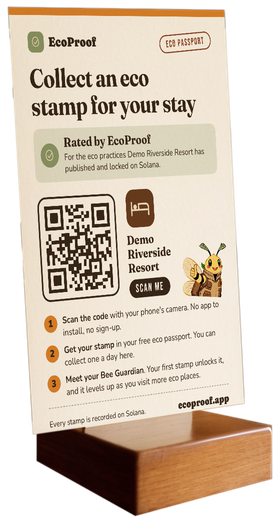
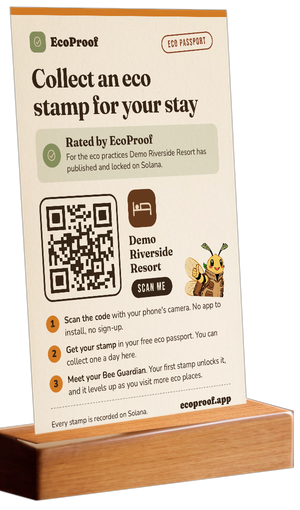
Hero stand: a slim matt holder instead of the deep glossy block
Claude-Session: https://claude.ai/code/session_01HWHP3iugw8gkvvKKS5vpBj

diff --git a/components/landing/MapPicture.tsx b/components/landing/MapPicture.tsx
@@ -133,7 +133,7 @@ export default function MapPicture({ scanned = false }: { scanned?: boolean }) {
         <svg viewBox="0 0 100 100" preserveAspectRatio="none" className="pointer-events-none absolute inset-0 h-full w-full" aria-hidden>
           <path d="M83 33 C 86 36, 87 40, 86 46" fill="none" stroke="#e08a2e" strokeWidth={3} strokeDasharray="7 6" strokeLinecap="round" vectorEffect="non-scaling-stroke" />
         </svg>
-        <Image src="/landing/hero/stand-slim.webp" alt="The hotel's EcoProof postcard on a wooden stand: Collect an eco stamp for your stay, Rated by EcoProof, with a QR code" width={280} height={522} sizes="(min-width: 640px) 170px, 120px"
+        <Image src="/landing/hero/stand-thin.webp" alt="The hotel's EcoProof postcard on a wooden stand: Collect an eco stamp for your stay, Rated by EcoProof, with a QR code" width={300} height={510} sizes="(min-width: 640px) 170px, 120px"
           className="hero-stand absolute -bottom-[16%] -left-3 -rotate-[3deg] drop-shadow-[0_18px_22px_rgba(58,42,28,0.4)] lg:-left-10" />
         <ScanPhone />
       </>}

diff --git a/art/hero-scan/cutout.py b/art/hero-scan/cutout.py
@@ -2,7 +2,7 @@
 """The A6 postcard on its wooden block, cut out with a transparent background, for the hero (Pola, 2026-11-18: keep the card stand,
 but without a photo behind it; the hero is three pictures: the map, the stand, the phone). Cut from the hotel reception photo
 (../postcard/reception2_436.png) with the app's own postcard printed on it, as in ../postcard/compose.py; outlines read off gridded
-zooms by hand. Run with the WebUI venv python (numpy, cv2) → stand.png (280x522, RGBA)."""
+zooms by hand. Run with the WebUI venv python (numpy, cv2) → stand.png (300x510, RGBA)."""
 import pathlib
 import numpy as np, cv2
 from PIL import Image
@@ -17,17 +17,28 @@ M = cv2.getPerspectiveTransform(np.float32([(0, 0), (cw, 0), (cw, ch), (0, ch)])
 pr = cv2.warpPerspective(card, M, (W*SS, H*SS), flags=cv2.INTER_AREA, borderValue=(255, 255, 255))
 a = cv2.warpPerspective(np.full((ch, cw), 255, np.float32), M, (W*SS, H*SS), flags=cv2.INTER_LINEAR)[..., None]/255
 big = big*(1-a) + big*(pr/255)*a
-# The block in the photo is far wider than the card (Pola: "overdimensional"), so it is drawn at half its size about the middle of the
-# card's foot, under the card. The plain photo is used for the block, the printed one for the card.
-PIVOT, SHRINK = (506, 781), 0.5
-plain = cv2.resize(src, (W*SS, H*SS), interpolation=cv2.INTER_LANCZOS4).astype(np.float32)
-bm = np.zeros((H*SS, W*SS), np.uint8); cv2.fillPoly(bm, [np.int32(np.float32(BLOCK)*SS)], 255, cv2.LINE_AA)
-A = np.float32([[SHRINK, 0, PIVOT[0]*SS*(1-SHRINK)], [0, SHRINK, PIVOT[1]*SS*(1-SHRINK)]]); size = (W*SS, H*SS)
-block = cv2.warpAffine(plain, A, size, flags=cv2.INTER_AREA); bm = cv2.warpAffine(bm, A, size, flags=cv2.INTER_AREA)
+# The block in the photo is far wider and deeper than the card and has a glossy top (Pola: "overdimensional", "too shiny", "thinner
+# in depth"), so a slim holder is built from its wood instead: a little wider than the card, a narrow strip deep, lower, with a matt
+# top. Its faces are the photo's own two side faces, laid onto the new shape; the top is the front face's wood, lightened.
+F, R, L = np.float32((500, 828)), np.float32((773, 793)), np.float32((303, 775))     # the photo block's front, right and left top corners
+P = lambda a, b: F + a*(R - F) + b*(L - F)                                            # a along the card, b into the depth; the card stands at b = 0.57
+A0, A1, B0, B1, TH = -0.04, 0.90, 0.44, 0.70, np.float32((0, 56))                     # the new holder: along the card, in depth, and its height
+f, r, l, bk = P(A0, B0), P(A1, B0), P(A0, B1), P(A1, B1)
+plain = cv2.resize(src, (W*SS, H*SS), interpolation=cv2.INTER_LANCZOS4).astype(np.float32); size = (W*SS, H*SS)
+block = np.zeros_like(plain); bm = np.zeros((H*SS, W*SS), np.uint8)
+def face(src_quad, dst_quad, gain=1.0):
+    global block, bm
+    M2 = cv2.getPerspectiveTransform(np.float32(src_quad)*SS, np.float32(dst_quad)*SS)
+    w = cv2.warpPerspective(plain, M2, size, flags=cv2.INTER_AREA); m = np.zeros((H*SS, W*SS), np.uint8); cv2.fillPoly(m, [np.int32(np.float32(dst_quad)*SS)], 255, cv2.LINE_AA)
+    k = (m.astype(np.float32)/255)[..., None]; block = block*(1-k) + w*gain*k; bm = np.maximum(bm, m)
+RIGHT = [(500, 834), (773, 800), (773, 895), (500, 968)]; LEFT = [(306, 782), (497, 834), (497, 968), (306, 860)]   # the photo's two faces, just inside their edges
+face(RIGHT, [l, bk, r, f], 1.12)             # top: matt wood, a little lighter than the front
+face(LEFT, [l, f, f + TH, l + TH])           # the side in shadow
+face(RIGHT, [f, r, r + TH, f + TH])          # the front
 cm = np.zeros((H*SS, W*SS), np.uint8); cv2.fillPoly(cm, [np.int32(np.float32(QUAD)*SS)], 255, cv2.LINE_AA)
 ca = (cv2.GaussianBlur(cm, (0, 0), 0.8).astype(np.float32)/255)[..., None]
 out = block*(1-ca) + big*ca
 mask = np.maximum(cv2.GaussianBlur(bm, (0, 0), 0.8), cv2.GaussianBlur(cm, (0, 0), 0.8))
-x0, y0, x1, y1 = 368*SS, 362*SS, 648*SS, 884*SS
+x0, y0, x1, y1 = 366*SS, 362*SS, 666*SS, 872*SS
 rgba = np.dstack([out.clip(0, 255).astype(np.uint8), mask])[y0:y1, x0:x1]
 im = Image.fromarray(rgba, "RGBA"); im = im.resize((im.width//2, im.height//2), Image.LANCZOS); im.save(D/"stand.png"); print("wrote stand.png", im.size)

diff --git a/CLAUDE.md b/CLAUDE.md
@@ -112,7 +112,7 @@ on Solana. For sustainable shops, cafés, markets and online brands.
   (`components/landing/CheckRecord.tsx` → `/api/verify`); "Your impact page writes itself" shows the example shop (most verified purchases) with
   its numbers linking to `/places/<id>#proofs` (the proof list, `shopProofs()` in `lib/shops.ts`), and the live badge: `lib/badge.ts` builds the SVG,
   `/api/badge/<place>.svg` serves it (eco shops only, cached 5 min), `badgeEmbed()` is the snippet, shown only on the owner dashboard (`badge` in the activity API); the landing shows the badge image without its code. Below `FEW_ORDERS` (10, `lib/badge.ts`) verified orders the badge and the landing widget lead with the order count instead of the totals, so one big order can't look like inflation. With no example shop the widget shows dashes,
-  never zeros. The hero (Pola, 2026-11-18, final after several photo heroes that "did not work") has no photo: the copy on kraft, and beside it three pictures in one (`MapPicture scanned`): the map of eco places with its QR pins, the hotel's A6 postcard on its wooden stand as a cut-out at the lower left (`art/hero-scan/cutout.py`, which also halves the photo's oversized wooden block, → `public/landing/hero/stand-slim.webp`, width in `.hero-stand`), and at the lower right a phone drawn in HTML (`ScanPhone`, size in `.scan-phone`) that has just scanned the Hotel pin's QR code (the code is framed, a dashed line runs to the phone) and shows "Stamp collected", the points, the proof and the Sentinel. Keep the scanned pin clear of the phone. Dropped the same day, recipes kept: a guest in a hotel room (`art/hero-room/`), a hotel desk photo with the postcard (`art/hero-scan/gen.py`, `clear.py`, `compose.py`). Section order: hero, the award line (partner logos and "founding partner" dropped 2026-11-15), customers ("I'm eco, and I have proof.", `#customers`, moved up under the hero on 2026-11-18; its picture is the passport phone mockup), "How it works" (`#how`, a carousel since 2026-11-18, `components/landing/HowItWorks.tsx`; it replaced "Live in three steps" and the Solana journey, which told the same steps: slide 1 "Find the QR code" shows three places to find it, each a picture with what a stamp there is worth, in this order: the café postcard photo (café / restaurant / hotel / resort), the eco shop door's receipt photo (a purchase in an eco shop), the parcel-arrived picture (an online order: parcel card and order email); points read from `lib/stampClasses.ts`; slide 2 "A few seconds on the phone" has the stamp picture, four steps worded for a visit and an order at once (no switch), "Watch it on a phone" (swaps the picture for the visit replay) and sharing; slide 3 "And it stays that way" is the plain-words "What is Solana, and why put a coffee stamp on it?" with the proof picture under it, the promises and honest limits, and carries `#why-chain`, which opens that slide; one scroll-snap row, as tall as the slide on show, with tabs and a next button that ends in "Join as a business". Pola wants slide 2 more interactive or animated later: talk first), "Anyone can print a green badge" (`#proof`: claim vs a record headlined "Unchanged since <date>", with the live check), business types, "Your public page writes itself" (`#impact`: badge, the shop impact widget, and a star card from `LandingStats.hospitality` with a Café / Restaurant | Hotel / Resort switch (`components/landing/HospitalityCard.tsx`; each a real place once one has published stars, else a demo place shown as a dashed specimen with unfilled stars; the hotel side adds "What guests see before they book"), after the real shop widget on phones), pricing, closing. Below `COUNTERS_FROM` proofs the hero shows an "early days" line instead of counter tiles; below 10 purchases the impact widget starts with the orders behind its numbers and highlights no figure. Phones get a "Try it: collect a demo stamp" button instead of the QR card. The phone replay (`components/landing/StampJourney.tsx`, `door` prop, loops, still under reduced motion) replays the real claim steps for a visit or an order; the scannable on-page QR card, the hash/memo tiles (`ChainFlow`) and the on/off-chain box were dropped as too much, too technical.
+  never zeros. The hero (Pola, 2026-11-18, final after several photo heroes that "did not work") has no photo: the copy on kraft, and beside it three pictures in one (`MapPicture scanned`): the map of eco places with its QR pins, the hotel's A6 postcard on its wooden stand as a cut-out at the lower left (`art/hero-scan/cutout.py`, which rebuilds the photo's oversized, glossy wooden block as a slim matt holder from the same wood (Pola: too big, too shiny, too deep), → `public/landing/hero/stand-thin.webp`, width in `.hero-stand`), and at the lower right a phone drawn in HTML (`ScanPhone`, size in `.scan-phone`) that has just scanned the Hotel pin's QR code (the code is framed, a dashed line runs to the phone) and shows "Stamp collected", the points, the proof and the Sentinel. Keep the scanned pin clear of the phone. Dropped the same day, recipes kept: a guest in a hotel room (`art/hero-room/`), a hotel desk photo with the postcard (`art/hero-scan/gen.py`, `clear.py`, `compose.py`). Section order: hero, the award line (partner logos and "founding partner" dropped 2026-11-15), customers ("I'm eco, and I have proof.", `#customers`, moved up under the hero on 2026-11-18; its picture is the passport phone mockup), "How it works" (`#how`, a carousel since 2026-11-18, `components/landing/HowItWorks.tsx`; it replaced "Live in three steps" and the Solana journey, which told the same steps: slide 1 "Find the QR code" shows three places to find it, each a picture with what a stamp there is worth, in this order: the café postcard photo (café / restaurant / hotel / resort), the eco shop door's receipt photo (a purchase in an eco shop), the parcel-arrived picture (an online order: parcel card and order email); points read from `lib/stampClasses.ts`; slide 2 "A few seconds on the phone" has the stamp picture, four steps worded for a visit and an order at once (no switch), "Watch it on a phone" (swaps the picture for the visit replay) and sharing; slide 3 "And it stays that way" is the plain-words "What is Solana, and why put a coffee stamp on it?" with the proof picture under it, the promises and honest limits, and carries `#why-chain`, which opens that slide; one scroll-snap row, as tall as the slide on show, with tabs and a next button that ends in "Join as a business". Pola wants slide 2 more interactive or animated later: talk first), "Anyone can print a green badge" (`#proof`: claim vs a record headlined "Unchanged since <date>", with the live check), business types, "Your public page writes itself" (`#impact`: badge, the shop impact widget, and a star card from `LandingStats.hospitality` with a Café / Restaurant | Hotel / Resort switch (`components/landing/HospitalityCard.tsx`; each a real place once one has published stars, else a demo place shown as a dashed specimen with unfilled stars; the hotel side adds "What guests see before they book"), after the real shop widget on phones), pricing, closing. Below `COUNTERS_FROM` proofs the hero shows an "early days" line instead of counter tiles; below 10 purchases the impact widget starts with the orders behind its numbers and highlights no figure. Phones get a "Try it: collect a demo stamp" button instead of the QR card. The phone replay (`components/landing/StampJourney.tsx`, `door` prop, loops, still under reduced motion) replays the real claim steps for a visit or an order; the scannable on-page QR card, the hash/memo tiles (`ChainFlow`) and the on/off-chain box were dropped as too much, too technical.
 - `/join` lives outside `(app)` (`app/join/`, content in `components/landing/JoinFlow.tsx`) and wears the landing's journal chrome (`LandingNav page="join"`);
   sign-in there leads with Google/Facebook, the wallet sits under "Other ways to sign in".
 - Points by kind (`POINTS_BY_KIND` in `lib/stampClasses.ts`, decided 21 Oct 2026): a presence stamp is worth 1 at a café or restaurant,
